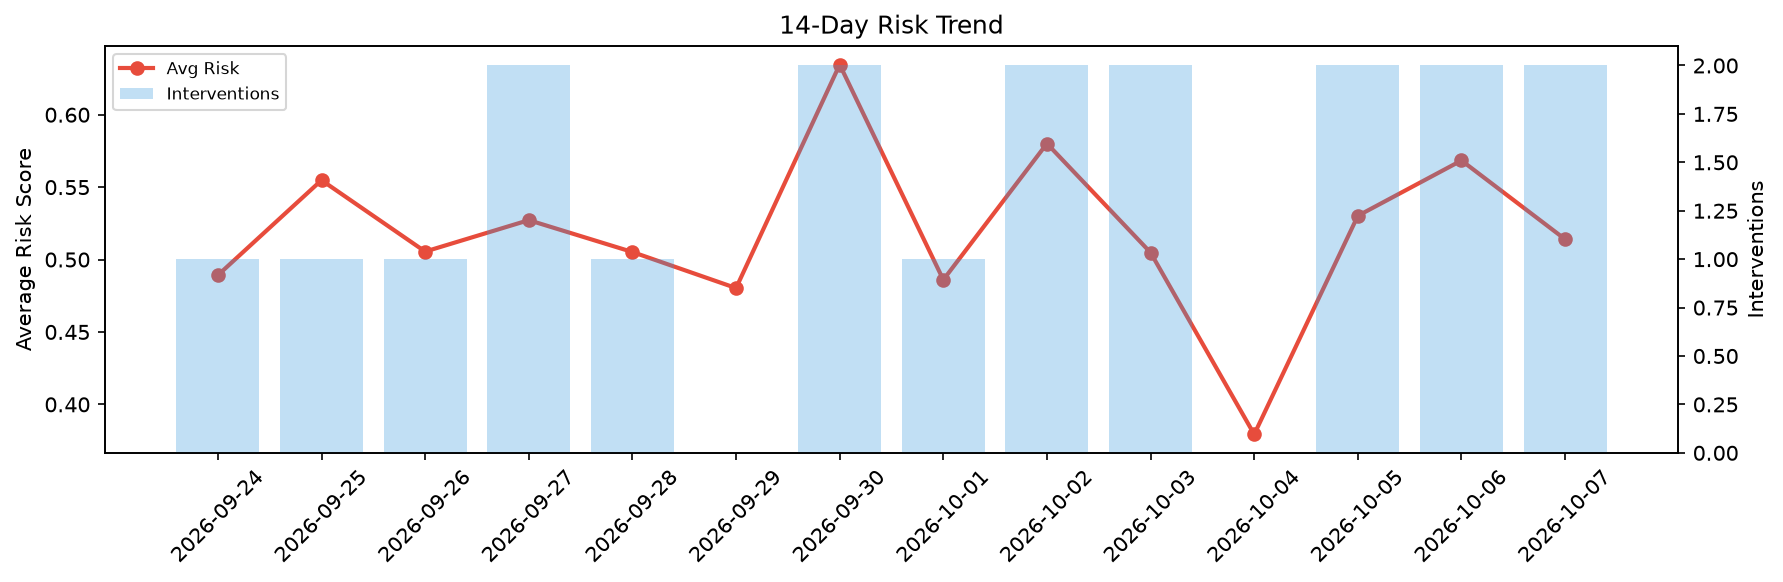
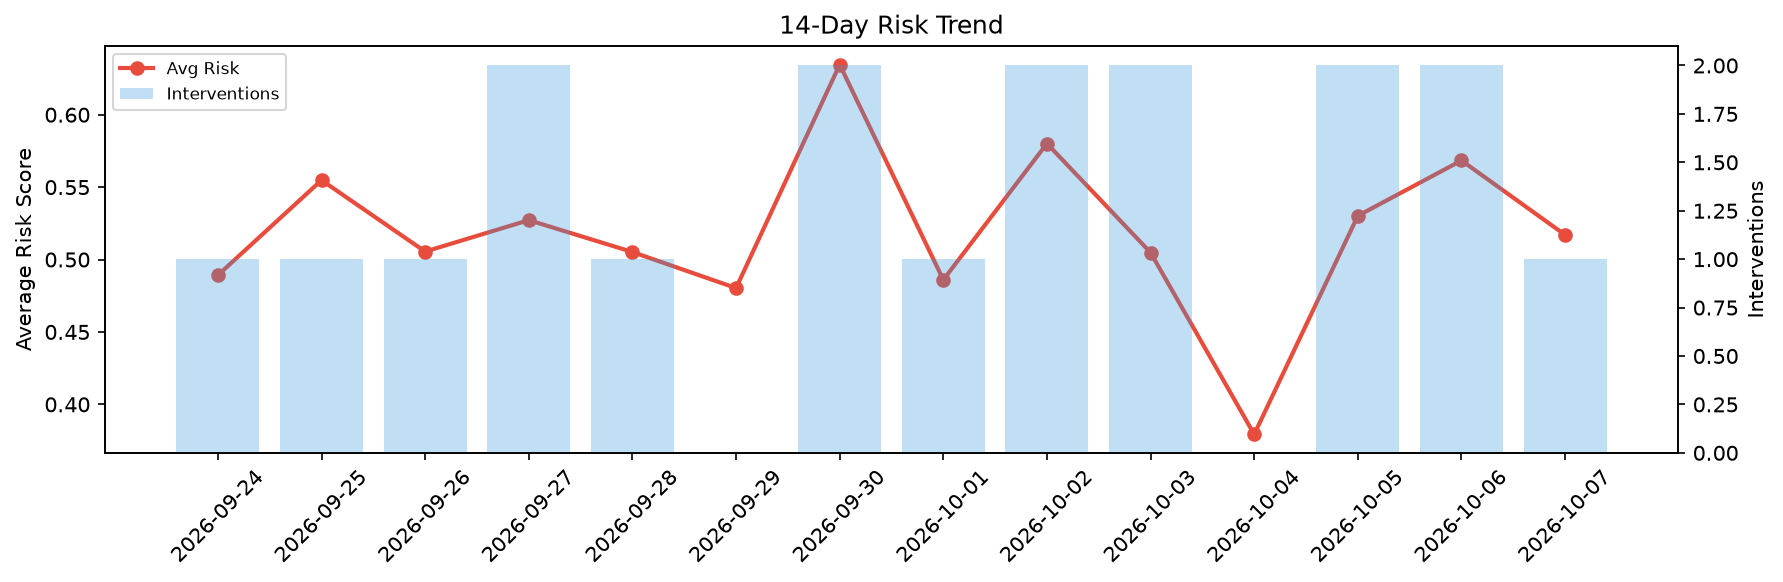
agent-improvement: daily cycle 2026-10-07T19:59

Changed region(s): [[0.8329, 0.0928, 0.9254, 0.4639]]

diff --git a/logs/2026-10-07.md b/logs/2026-10-07.md
@@ -1,6 +1,6 @@
 # Agent Improvement Report — 2026-10-07
 
-**Cycle ID:** `9d8e6b7c` | **Avg Risk:** 0.514 | **Interventions:** 2/4
+**Cycle ID:** `343d8368` | **Avg Risk:** 0.517 | **Interventions:** 1/4
 
 ![Dashboard](2026-10-07_dashboard.png)
 
@@ -10,18 +10,18 @@
 
 | Domain | Risk Score | Decision | Alerts |
 |--------|-----------|----------|--------|
-| code_review | 0.6748 | intervene | complexity |
-| incident_response | 0.4925 | monitor | severity |
-| data_pipeline | 0.1808 | monitor | none |
-| deployment | 0.7078 | intervene | latency_p99 |
+| code_review | 0.5978 | monitor | complexity |
+| incident_response | 0.4255 | monitor | none |
+| data_pipeline | 0.4416 | monitor | schema_drift |
+| deployment | 0.6032 | intervene | rollback_rate |
 
 ## Delta vs Yesterday
 
 | Domain | Today | Yesterday | Change |
 |--------|-------|-----------|--------|
-| code_review | 0.6748 | 0.6777 | 📉 -0.4% |
-| incident_response | 0.4925 | 0.452 | 📈 9.0% |
-| data_pipeline | 0.1808 | 0.5156 | 📉 -64.9% |
-| deployment | 0.7078 | 0.6285 | 📈 12.6% |
+| code_review | 0.5978 | 0.6777 | 📉 -11.8% |
+| incident_response | 0.4255 | 0.452 | 📉 -5.9% |
+| data_pipeline | 0.4416 | 0.5156 | 📉 -14.4% |
+| deployment | 0.6032 | 0.6285 | 📉 -4.0% |
 
 **Refinement:** `{'adjustment': 'tighten_thresholds', 'trend': 'degrading', 'window': 4}`
